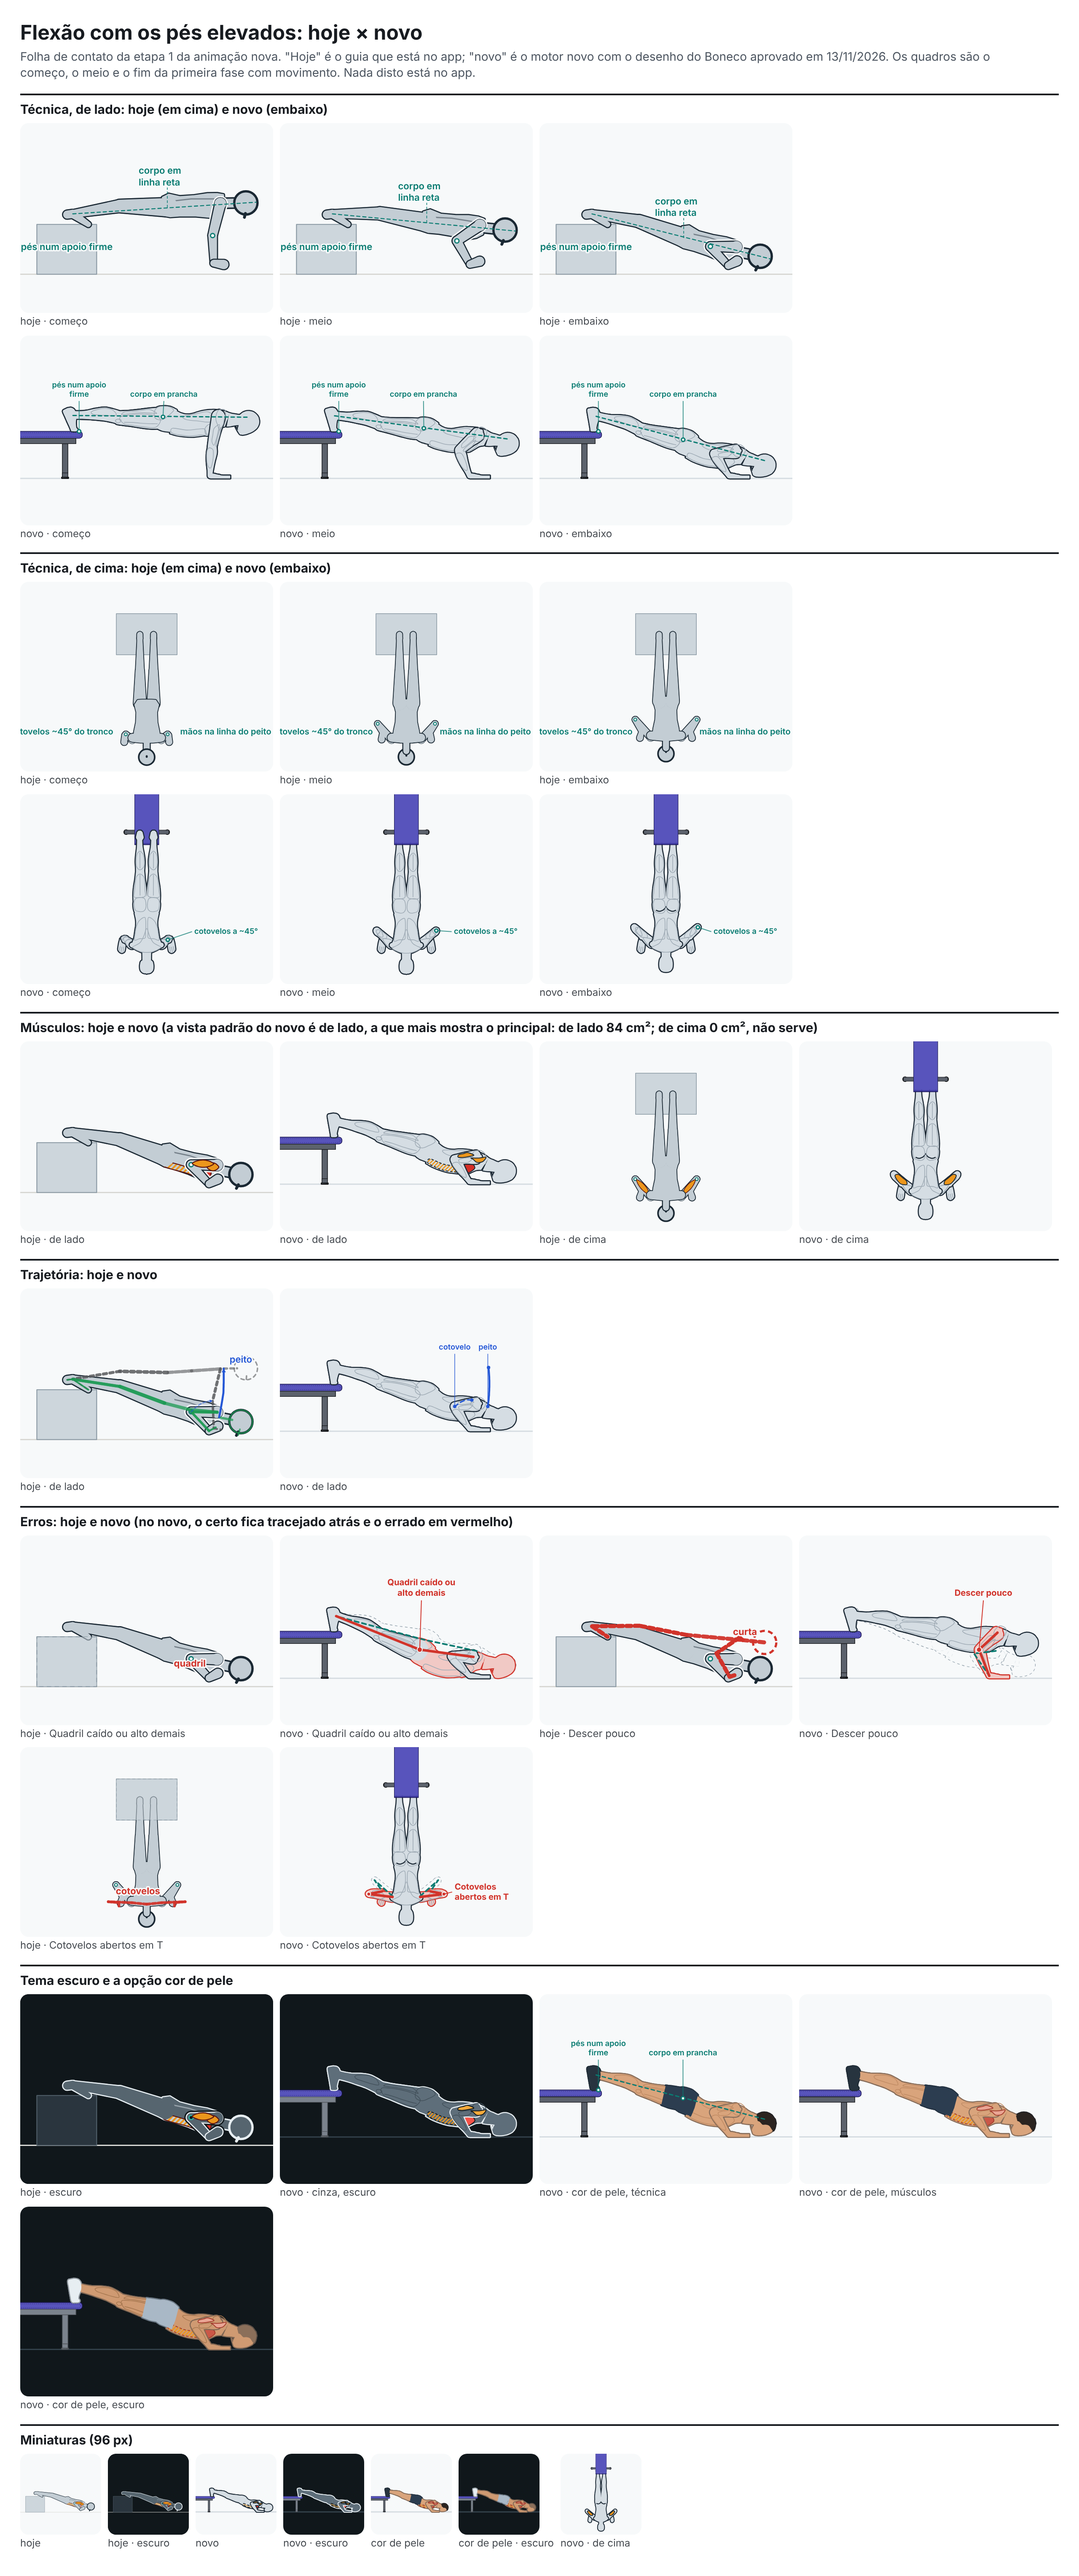
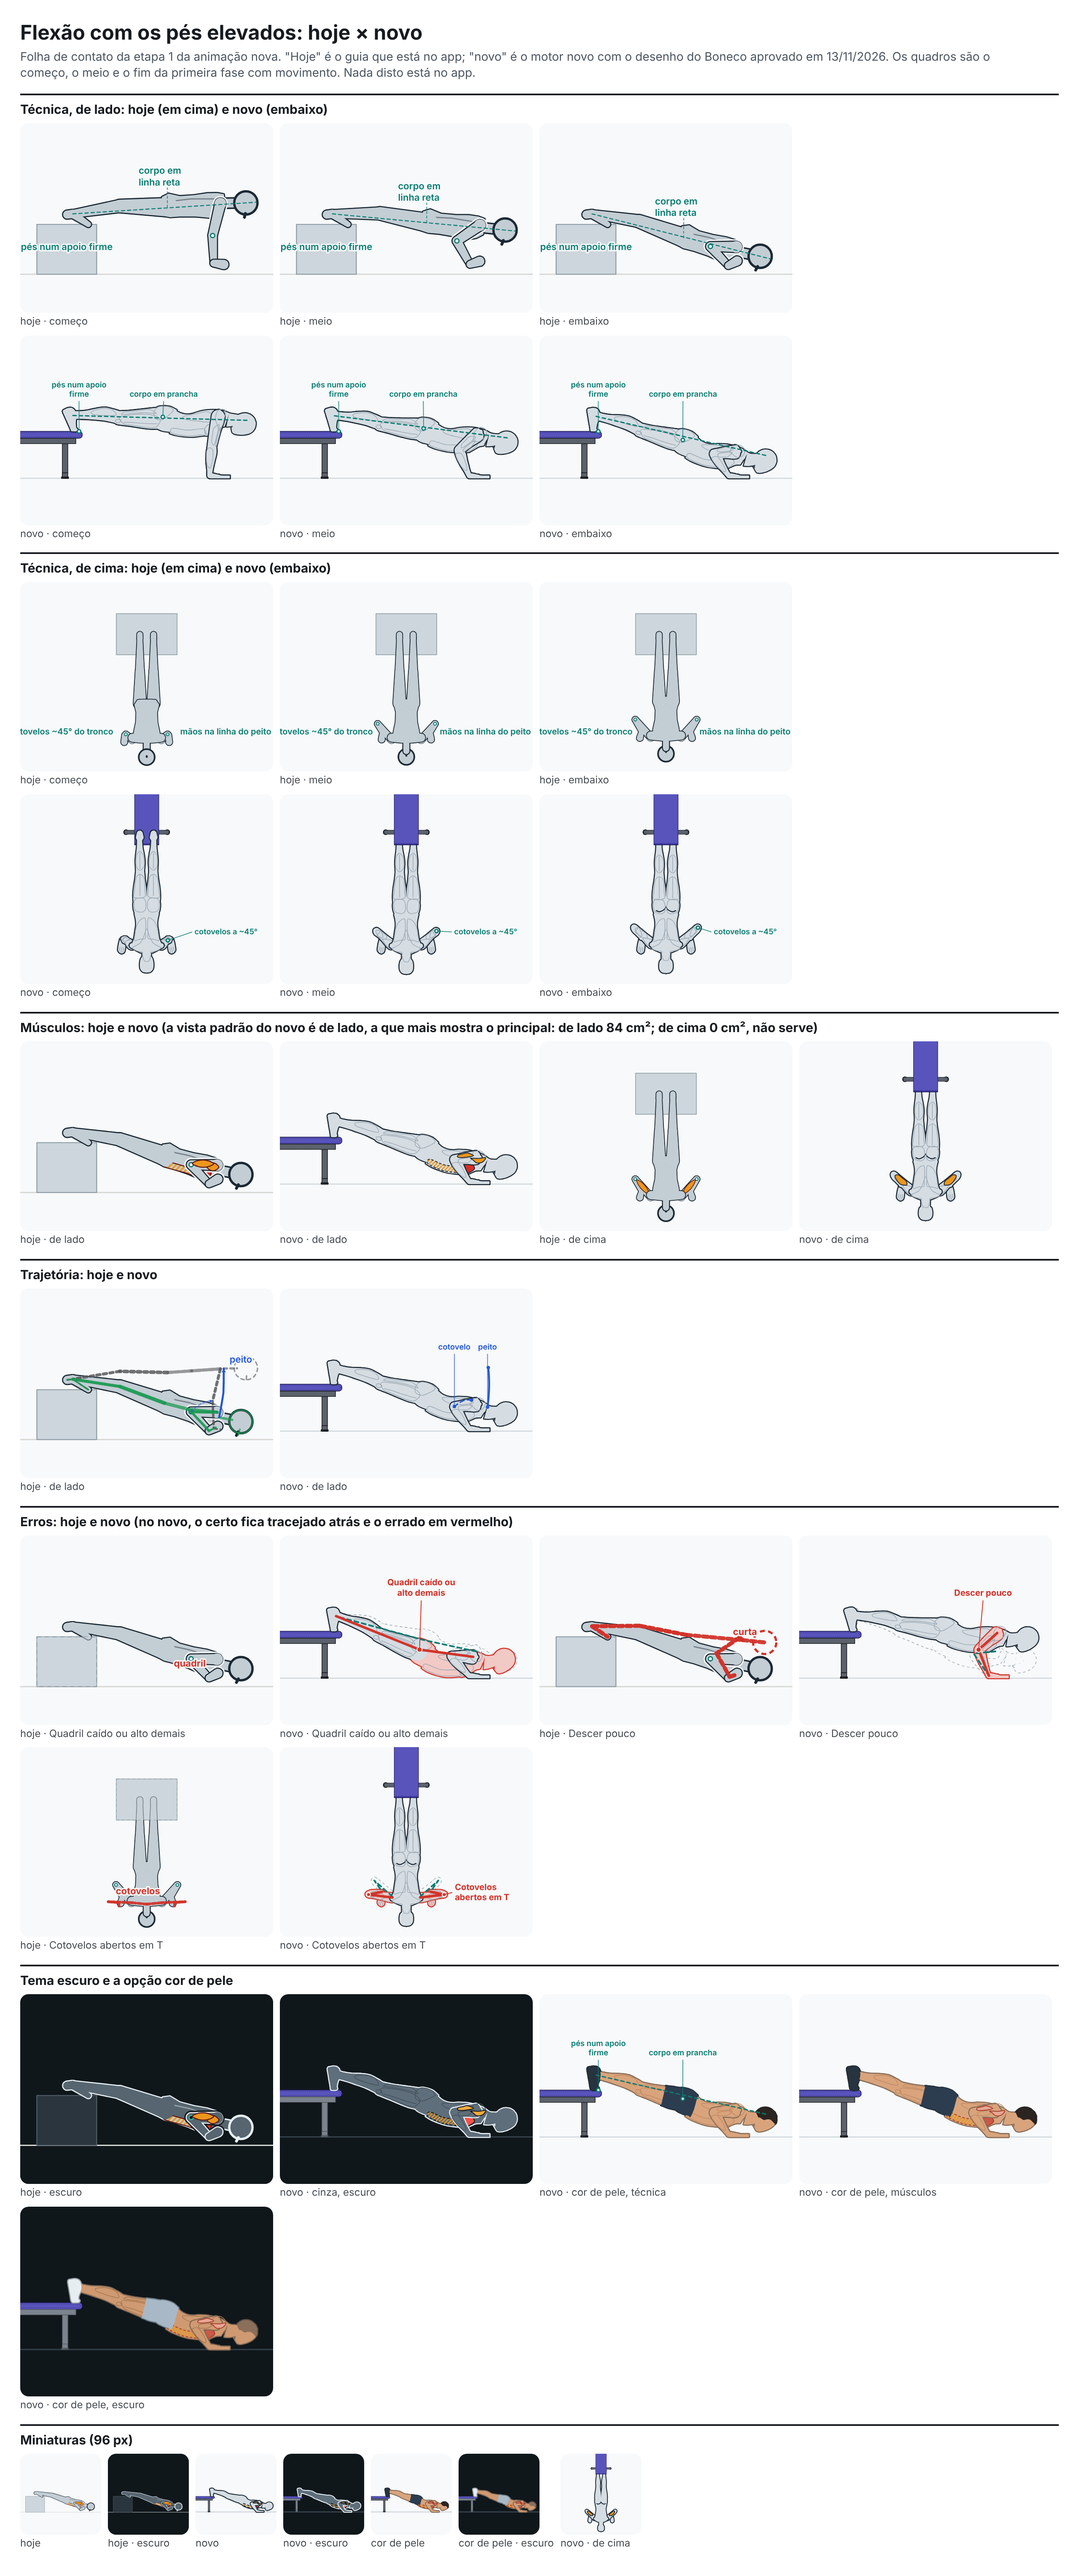
Correção: flexão com os pés elevados com o rosto a 5 cm do chão embaixo
O pescoço estende conforme o corpo desce (de 16° a 50°, olhando o chão à frente das
mãos), e a descida para com o rosto a 5 cm; o peito fica a 8,5 cm. O núcleo das
flexões ganha a extensão do pescoço que cresce até embaixo (a flexão segue idêntica).

Claude-Session: https://claude.ai/code/session_01YRzts7dTzBdkrmTDEnq8bW

diff --git a/src/engine/novo/exercicios/flexionar.ts b/src/engine/novo/exercicios/flexionar.ts
@@ -63,8 +63,13 @@ export function criarFlexao(fichaJson: unknown, op: OpcoesDaFlexao = {}): Flexao
   /** O erro dos cotovelos abertos: `cot` na maioria das fichas, `cotovelos` na dos pés elevados. */
   const ehCot = (erro?: string) => erro === 'cot' || erro === 'cotovelos';
 
+  /**
+   * A extensão do pescoço (graus): a da flexão (4°), ou a da ficha; com `pescoco.extensaoEmbaixo`, ela cresce do começo
+   * (u = 0) até embaixo (u = 1): o olhar vai para o chão à frente das mãos só quando o corpo desce.
+   */
+  const pescoco = (u: number) => (!tem('pescoco.extensao') ? 4 : tem('pescoco.extensaoEmbaixo') ? mix(f('pescoco.extensao'), f('pescoco.extensaoEmbaixo'), u) : f('pescoco.extensao'));
   /** O corpo em prancha, inclinado `beta` graus acima da horizontal, com as mãos em (±xMao, zMao). */
-  function prancha(corpo: Corpo, beta: number, zMao: number, o: { cot?: number; quadril?: number; retr?: number } = {}): Esq {
+  function prancha(corpo: Corpo, beta: number, zMao: number, o: { cot?: number; quadril?: number; retr?: number; u?: number } = {}): Esq {
     const m = (id: string) => corpo.m(id);
     const w = f('pes.meiaDistancia');
     // pé: os dedos no apoio, o resto do pé levantado; o tornozelo fica perto do neutro
@@ -79,7 +84,7 @@ export function criarFlexao(fichaJson: unknown, op: OpcoesDaFlexao = {}): Flexao
     const queda = o.quadril ?? 0;
     const pelve: V3 = [0, torn[1] + d * Math.sin((beta - queda * 0.5) * rad), torn[2] + d * Math.cos((beta - queda * 0.5) * rad)];
     // o pescoço e a cabeça: um pouco estendidos (a flexão); a ficha pode estender mais (pés elevados: a cabeça livre do chão)
-    const t = resolverTronco(corpo, { pelve, frente: 90 - beta + queda * 0.4, lombar: -queda, cervical: tem('pescoco.extensao') ? -f('pescoco.extensao') : -4, cabeca: tem('cabeca.extensao') ? -f('cabeca.extensao') : -6 });
+    const t = resolverTronco(corpo, { pelve, frente: 90 - beta + queda * 0.4, lombar: -queda, cervical: -pescoco(o.u ?? 0), cabeca: tem('cabeca.extensao') ? -f('cabeca.extensao') : -6 });
     const xMao = m('ombro.meiaDistancia') + f('maos.alemDoOmbro');
     const a = (o.cot ?? f('cotovelos.doTronco')) * rad;
     const braco = (k: Lado): PoseBraco => {
@@ -98,7 +103,7 @@ export function criarFlexao(fichaJson: unknown, op: OpcoesDaFlexao = {}): Flexao
     const zOmbro = (beta: number) => prancha(corpo, beta, 100).lado.L.ombro[2];
     // com a cabeça abaixo dos pés, ela pode chegar ao chão antes do peito: a descida para no que vier primeiro
     const folga = (e: Esq) => (tem('cabeca.aoChao') ? Math.min(peitoAoChao(e) - f('peito.aoChao'), cabecaAoChao(e) - f('cabeca.aoChao')) : peitoAoChao(e) - f('peito.aoChao'));
-    const baixo = resolver1((b) => folga(prancha(corpo, b, 100)), b0, b1, 18);
+    const baixo = resolver1((b) => folga(prancha(corpo, b, 100, { u: 1 })), b0, b1, 18);
     const zMao = zOmbro(baixo) - f('maos.abaixoDoOmbro');
     // 2) em cima: o cotovelo quase estendido define o ângulo
     const cima = resolver1((b) => f('cotovelo.cima') - prancha(corpo, b, zMao).lado.L.ang.cotovelo, baixo, 45);
@@ -113,7 +118,7 @@ export function criarFlexao(fichaJson: unknown, op: OpcoesDaFlexao = {}): Flexao
     const c = calibrar(corpo);
     const fundo = erro === 'curta' ? f('erro.curta.fracao') : 1;
     const beta = mix(c.cima, c.baixo, u * fundo);
-    const o = { cot: ehCot(erro) ? mix(f('cotovelos.doTronco'), f('erro.cot.doTronco'), Math.min(1, u * 1.6)) : undefined, quadril: erro === 'quadril' ? f('erro.quadril.queda') * (0.55 + 0.45 * u) : 0, retr: f('escapula.retracaoEmbaixo') * u };
+    const o = { cot: ehCot(erro) ? mix(f('cotovelos.doTronco'), f('erro.cot.doTronco'), Math.min(1, u * 1.6)) : undefined, quadril: erro === 'quadril' ? f('erro.quadril.queda') * (0.55 + 0.45 * u) : 0, retr: f('escapula.retracaoEmbaixo') * u, u };
     let e = prancha(corpo, beta, c.zMao, o);
     // com o quadril caído, a barriga chega ao chão antes do peito: a descida para onde o corpo encosta (1 cm de folga)
     if (erro === 'quadril' && maisBaixoDoTronco(e) < 1) e = prancha(corpo, resolver1((b) => maisBaixoDoTronco(prancha(corpo, b, c.zMao, o)) - 1, beta, 45, 20), c.zMao, o);

diff --git a/src/engine/novo/regras/flexoes.ts b/src/engine/novo/regras/flexoes.ts
@@ -47,7 +47,7 @@ export const regrasDasFlexoes: Record<string, Regra> = {
     const esq = q[q.length - 1]!.esq;
     let min = 1e9;
     for (const { p, parte } of pontosDoBoneco(esq)) if (parte === 'cabeca') min = Math.min(min, p[1]);
-    return { medido: `embaixo, o ponto mais baixo da cabeça fica a ${f1(min)} cm do chão`, ok: min >= 1 };
+    return { medido: `embaixo, o ponto mais baixo da cabeça fica a ${f1(min)} cm do chão`, ok: min >= 5 };
   },
   // elástico nas costas: o meio dele passa na altura das escápulas, abaixo do pescoço
   'elastico-nas-escapulas': (q) => {

diff --git a/docs/revisoes/animacao-nova/lote-2/flexao-pes-elevados.md b/docs/revisoes/animacao-nova/lote-2/flexao-pes-elevados.md
@@ -1,6 +1,6 @@
 # Lote 2 · Flexão com os pés elevados (`flexao-pes-elevados`)
 
-De 15/11/2026. Segunda animação do lote 2. Ainda não aprovada nem ligada às telas do app.
+De 15/11/2026, corrigida na rodada de correção do mesmo dia (o rosto encostava no chão). Segunda animação do lote 2. Ainda não aprovada nem ligada às telas do app.
 
 - Ficha da técnica: `docs/pesquisa/animacoes/flexao-pes-elevados.md`.
 - Ficha de movimento: `src/engine/novo/dados/movimentos/flexao-pes-elevados.json`.
@@ -19,28 +19,28 @@ A ficha e o texto do app pedem "um degrau de escada, a cama ou um sofá firme"; 
 | Mãos no chão um pouco mais abertas que os ombros | consenso | o centro da mão fica a 30,4 cm do meio do corpo (a da `flexao`); a borda de dentro, 2 cm para fora da linha de fora do ombro | sim |
 | Pés no apoio, que não desliza | consenso | as pontas dos pés ficam no tampo do banco (0 cm de folga) e não saem do lugar no ciclo (0 cm); o banco fica parado | sim |
 | Corpo reto da cabeça aos calcanhares | consenso | ombro, quadril e tornozelo fazem no mínimo 177° de lado; a lombar não dobra | sim |
-| A cabeça fica abaixo do quadril | consenso | embaixo, o quadril fica a 36 cm do chão e a cabeça a 1,5 cm | sim |
-| Descida em ~2 a 3 s, cotovelos a ~45° do corpo | consenso | 2,5 s; embaixo, o braço faz 50,5° com o tronco, visto de cima | sim |
-| Até o peito quase tocar o chão | consenso | o peito para a **8,9 cm** do chão (o limite da regra é 9): a cabeça chega antes, a 1,5 cm do chão | **em parte**: ver abaixo |
+| A cabeça fica abaixo do quadril | consenso | embaixo, o quadril fica a 35,5 cm do chão; o rosto, a 5 cm do chão | sim |
+| Descida em ~2 a 3 s, cotovelos a ~45° do corpo | consenso | 2,5 s; embaixo, o braço faz 50,4° com o tronco, visto de cima | sim |
+| Até o peito quase tocar o chão | consenso | o peito para a **8,5 cm** do chão (o limite da regra é 9), com o rosto a 5 cm | **em parte**: ver abaixo |
 | Empurra até os braços estenderem, sem travar | consenso (`ebben2011`) | em cima, o cotovelo dobra 10° | sim |
 | Subida ~1 s | consenso | 1,0 s | sim |
 
-**Por que o peito não desce a 5 cm, como na `flexao`:** com a cabeça abaixo dos pés, a cabeça em linha com o corpo bate no chão antes do peito. Medido: com o peito a 5 cm, o ponto mais baixo da cabeça ficaria 4,7 cm **abaixo** do chão. A descida agora para no que vier primeiro: o peito a 5 cm ou a cabeça a 1,5 cm do chão (`cabeca.aoChao`, escolha de desenho); com os pés a 43,5 cm, a cabeça vem primeiro. O pescoço estende um pouco mais que na `flexao` (16° e 12°, contra 4° e 6°) e ajuda pouco (o peito sobe de 9,9 para 8,9 cm). A animação de hoje resolveu o mesmo problema parando os ombros a 20 cm ("o queixo não bate no chão"); aqui os ombros param a 25 cm.
+**Por que o peito não desce a 5 cm, como na `flexao` (e o que mudou na correção):** com a cabeça abaixo dos pés, a cabeça em linha com o corpo bate no chão antes do peito: com o peito a 5 cm e o pescoço da `flexao`, o rosto ficaria 4,7 cm **abaixo** do chão. A primeira entrega parava a descida com o rosto a 1,5 cm do chão (parecia encostar). Agora o pescoço estende conforme o corpo desce, de 16° em cima a 50° embaixo (`pescoco.extensao`, `pescoco.extensaoEmbaixo`), com o queixo um pouco recolhido (`cabeca.extensao` = −10°). Contra o chão, com o tronco inclinado 20° para baixo, o rosto fica virado uns 30° para a frente: o olhar vai para o chão à frente das mãos. A descida para no que vier primeiro: o peito a 5 cm ou o rosto a 5 cm do chão (`cabeca.aoChao`). O rosto chega primeiro, e o peito para a 8,5 cm. Tentei também 25° a 45° de pescoço, que dão o peito de 10,8 a 8,8 cm, e o queixo mais ou menos recolhido, que muda menos de 0,5 cm. Mexer na linha das mãos não muda isso: a altura do peito e a do rosto só dependem do corpo reto e dos pés no banco.
 
 **Outras escolhas de desenho, todas medidas:**
 
-- A linha das mãos: embaixo, a mão fica debaixo do ombro (`maos.abaixoDoOmbro` = 0; na `flexao`, 13 cm). A ficha não dá a linha; com os pés elevados o ombro quase não anda para trás na subida, e com a mão 13 cm atrás o punho dobrava 107° em cima (máximo observado: 95°). Ficou em 93°.
+- A linha das mãos: embaixo, a mão fica debaixo do ombro (`maos.abaixoDoOmbro` = 0; na `flexao`, 13 cm). A ficha não dá a linha; com os pés elevados o ombro quase não anda para trás na subida, e com a mão 13 cm atrás o punho dobrava 107° em cima (máximo observado: 95°). Ficou em 93°. Por isso, embaixo, o antebraço inclina para a frente (o cotovelo fica 14 cm atrás da mão) e não fica em pé como na `flexao`: conferido nos quadros grandes, o antebraço e a mão se separam de lado. Com a mão 3 ou 5 cm mais para trás, o punho passa do máximo (96° e 98°).
 - O tornozelo: com o corpo inclinado para baixo e os dedos no tampo, o tornozelo da `flexao` (10°) dobrava os dedos 96° (máximo: 90°). Ficou em 27° de dorsiflexão (o calcanhar vai para trás), com os dedos a 80°.
 
-Conferência automática: **0 falha**. Avisos: dorsiflexão do tornozelo 27° (média 14,8°, máximo 48°); extensão do punho 93° (média 70°, máximo 95°); extensão dos dedos do pé 80,1° (média 70°, máximo 90°); ritmo com salto de 15,3% (limite do suave: 15%; tranco acima de 25%); as linhas de desenho da ficha (`maos.abaixoDoOmbro`, `tornozelo.dorsiflexao`, `escapula.retracaoEmbaixo`, `pes.daBordaDoBanco`, `banco.pontaNoQuadro`, `pescoco.extensao`, `cabeca.extensao`, `cabeca.aoChao`); o abdômen listrado fora da lista do conteúdo (é a correção de 10/11); e a vista de cima, que não serve ao modo Músculos (de lado, 84 cm², é a padrão).
+Conferência automática: **0 falha**. Avisos: dorsiflexão do tornozelo 27° (média 14,8°, máximo 48°); extensão do punho 93° (média 70°, máximo 95°); extensão dos dedos do pé 80,3° (média 70°, máximo 90°); ritmo com salto de 15,4% (limite do suave: 15%; tranco acima de 25%); as linhas de desenho da ficha (`maos.abaixoDoOmbro`, `tornozelo.dorsiflexao`, `escapula.retracaoEmbaixo`, `pes.daBordaDoBanco`, `banco.pontaNoQuadro`, `pescoco.extensao`, `pescoco.extensaoEmbaixo`, `cabeca.extensao`, `cabeca.aoChao`); o abdômen listrado fora da lista do conteúdo (é a correção de 10/11); e a vista de cima, que não serve ao modo Músculos (de lado, 84 cm², é a padrão).
 
 ## Erros
 
 | Erro (texto do app) | O que o boneco faz (medido) |
 |---|---|
-| Quadril caído ou alto demais (de lado) | só o caído, como na animação de hoje: a lombar arqueia 16°; ombro, quadril e tornozelo fazem 166° (o certo: 177°); a barriga para a 1 cm do chão e a cabeça a 0,2 cm |
-| Descer pouco (de lado) | para na metade: o peito fica a 24 cm do chão, o cotovelo dobra 84° |
-| Cotovelos abertos em T (de cima) | embaixo, o braço faz 83° com o tronco, visto de cima (o certo: 50,5°) |
+| Quadril caído ou alto demais (de lado) | só o caído, como na animação de hoje: a lombar arqueia 16°; ombro, quadril e tornozelo fazem 166° (o certo: 177°); a barriga para a 1 cm do chão e o rosto a 4,6 cm |
+| Descer pouco (de lado) | para na metade: o peito fica a 24 cm do chão, o cotovelo dobra 85° |
+| Cotovelos abertos em T (de cima) | embaixo, o braço faz 83° com o tronco, visto de cima (o certo: 50,4°) |
 
 ## Músculos
 
@@ -53,15 +53,24 @@ Principal: peitoral; secundários: tríceps e frente do ombro; o abdômen listra
 - 10/11/2026: o erro do cartão é "quadril caído ou alto demais" e o boneco mostra só o caído. Mantido assim (um erro desenhado só mostra um quadro).
 - A correção de texto da altura da cabeça (`872da42`): a cabeça fica abaixo do quadril, medida.
 
-## O que não ficou bom
+## Os nove itens do padrão (seção 8 do guia), nos quadros grandes
 
-- **O peito para a 8,9 cm do chão**, no limite da regra "quase toca". A ficha pede o peito quase tocando; com a cabeça em linha, o corpo não chega lá. Pode parecer que a pessoa "desce pouco".
-- **O banco não é o apoio que o texto do app cita** (degrau, cama ou sofá). Tem a altura certa e medida real, mas é equipamento de academia num exercício pensado para casa.
-- **De cima, o banco cobre o quadro acima dos pés** e corta o tampo na borda (é a ponta que o quadro mostra).
-- **A cabeça para a 1,5 cm do chão**: de lado, parece que o rosto encosta.
-- **O erro do quadril** mostra só o caído; o "alto demais" fica no texto.
-- O tornozelo e a linha das mãos mudaram contra a `flexao` para os ângulos caberem; são escolhas de desenho medidas, sem fonte própria.
+1. **Corpo:** a prancha reta e o pescoço olhando o chão à frente das mãos; nada atravessa o chão nem o banco.
+2. **Rosto:** fica a 5 cm do chão embaixo (4,6 cm no erro do quadril).
+3. **Quadro:** o banco é cenário cortado na ponta, e o corpo ocupa o quadro como na `flexao`.
+4. **Vistas:** de lado e de cima (os cotovelos a ~45°).
+5. **Equipamento:** o banco reto do gerador realista.
+6. **Mãos e pés:** as mãos ficam espalmadas no chão; as pontas dos pés, no tampo.
+7. **Erros:** os três se leem.
+8. **Rótulos:** dois por vista.
+9. **Tema escuro e cor de pele:** olhados.
+
+## O que não ficou bom (com o que tentei)
+
+- **O peito para a 8,5 cm do chão**, dentro da regra "quase toca" (até 9), mas não a 5 cm. O que tentei está acima: com o rosto a 5 cm, o corpo reto e os pés a 43,5 cm, o peito não desce mais sem o pescoço passar de 50°.
+- **O banco não é o apoio que o texto do app cita** (degrau, cama ou sofá). Tem a altura da caixa aprovada e medida real. Um degrau de escada (16 a 18 cm) resolveria o rosto, mas mudaria a inclinação aprovada em 10/11.
+- **O erro do quadril** mostra só o caído; o "alto demais" fica no texto (como a animação de hoje).
 
 ## Risco de o Gustavo não gostar
 
-**Médio.** A pose é a da flexão aprovada, girada, e passa em tudo; mas a troca da caixa pelo banco e o peito parando a quase 9 cm do chão são decisões que ele pode querer diferentes.
+**Médio.** O rosto não encosta mais, e a pose passa em tudo. O pescoço estendido embaixo, o peito a 8,5 cm e a troca da caixa pelo banco são decisões que ele pode querer diferentes.
